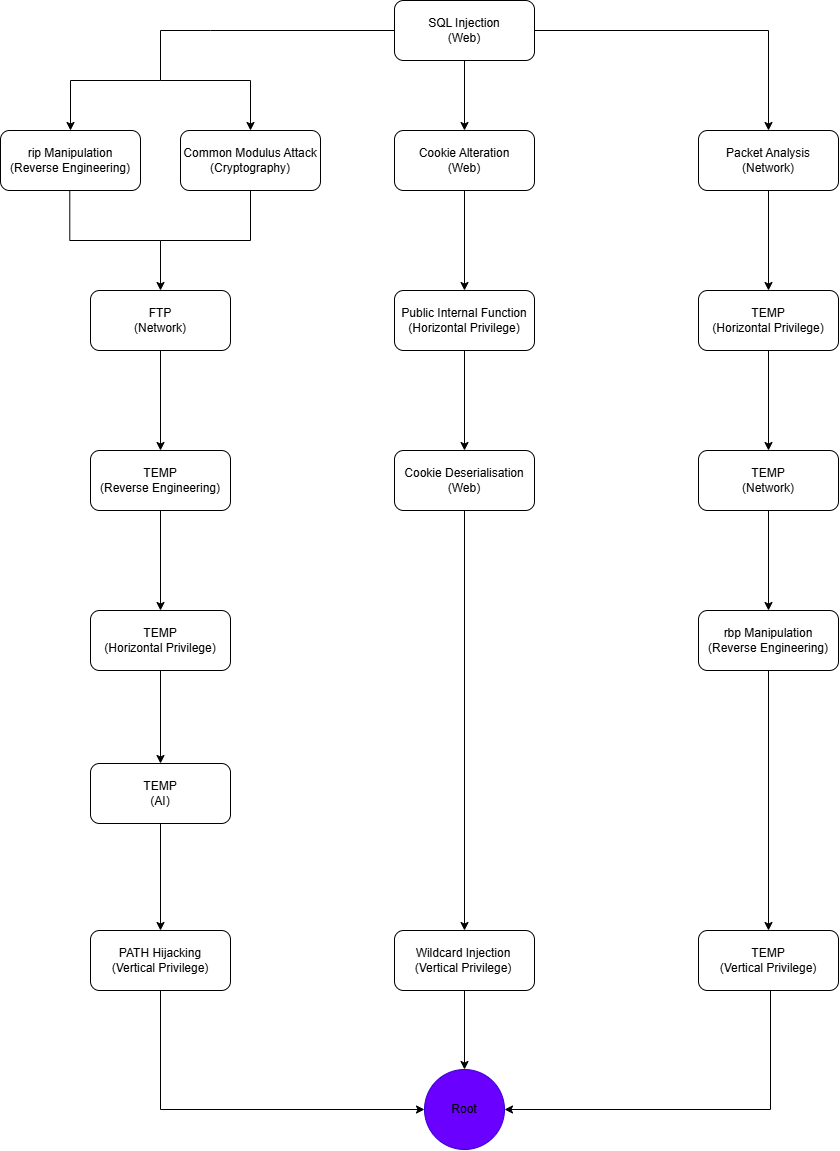
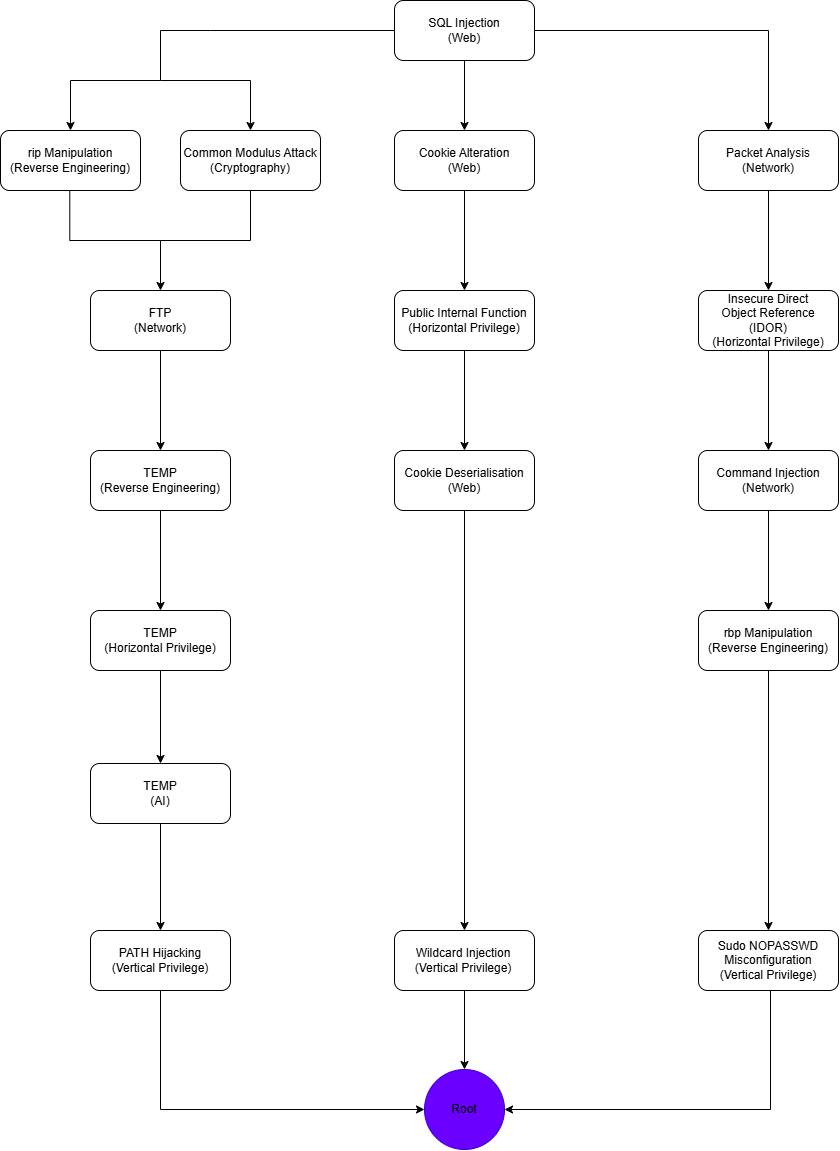
Updated exploit map with names for Path 3 vulnerabilities

Changed region(s): [[0.8357, 0.2433, 0.9905, 0.3041], [0.8357, 0.821, 0.9905, 0.8514], [0.8667, 0.3953, 0.9595, 0.4257]]

diff --git a/report.tex b/report.tex
@@ -410,9 +410,9 @@
     \section*{Path 3}
     \subsection*{Packet Analysis (Zarin)}
 
-    \subsection*{Horizontal Privilege (Zarin)}
+    \subsection*{Insecure Direct Object Reference (IDOR) (Zarin)}
 
-    \subsection*{Network (Zarin)}
+    \subsection*{Command Injection (Zarin)}
 
     \subsection*{\texttt{rbp} Manipulation (Isaac)}
         This vulnerability is solved using \texttt{gef}. To begin, the program
@@ -591,7 +591,7 @@
         c
         \end{verbatim}
 
-    \subsection*{Vertical Privilege (Zarin)}
+    \subsection*{Sudo \texttt{NOPASSWD} Misconfiguration (Zarin)}
 
     \section*{Individual Contribution}
     
